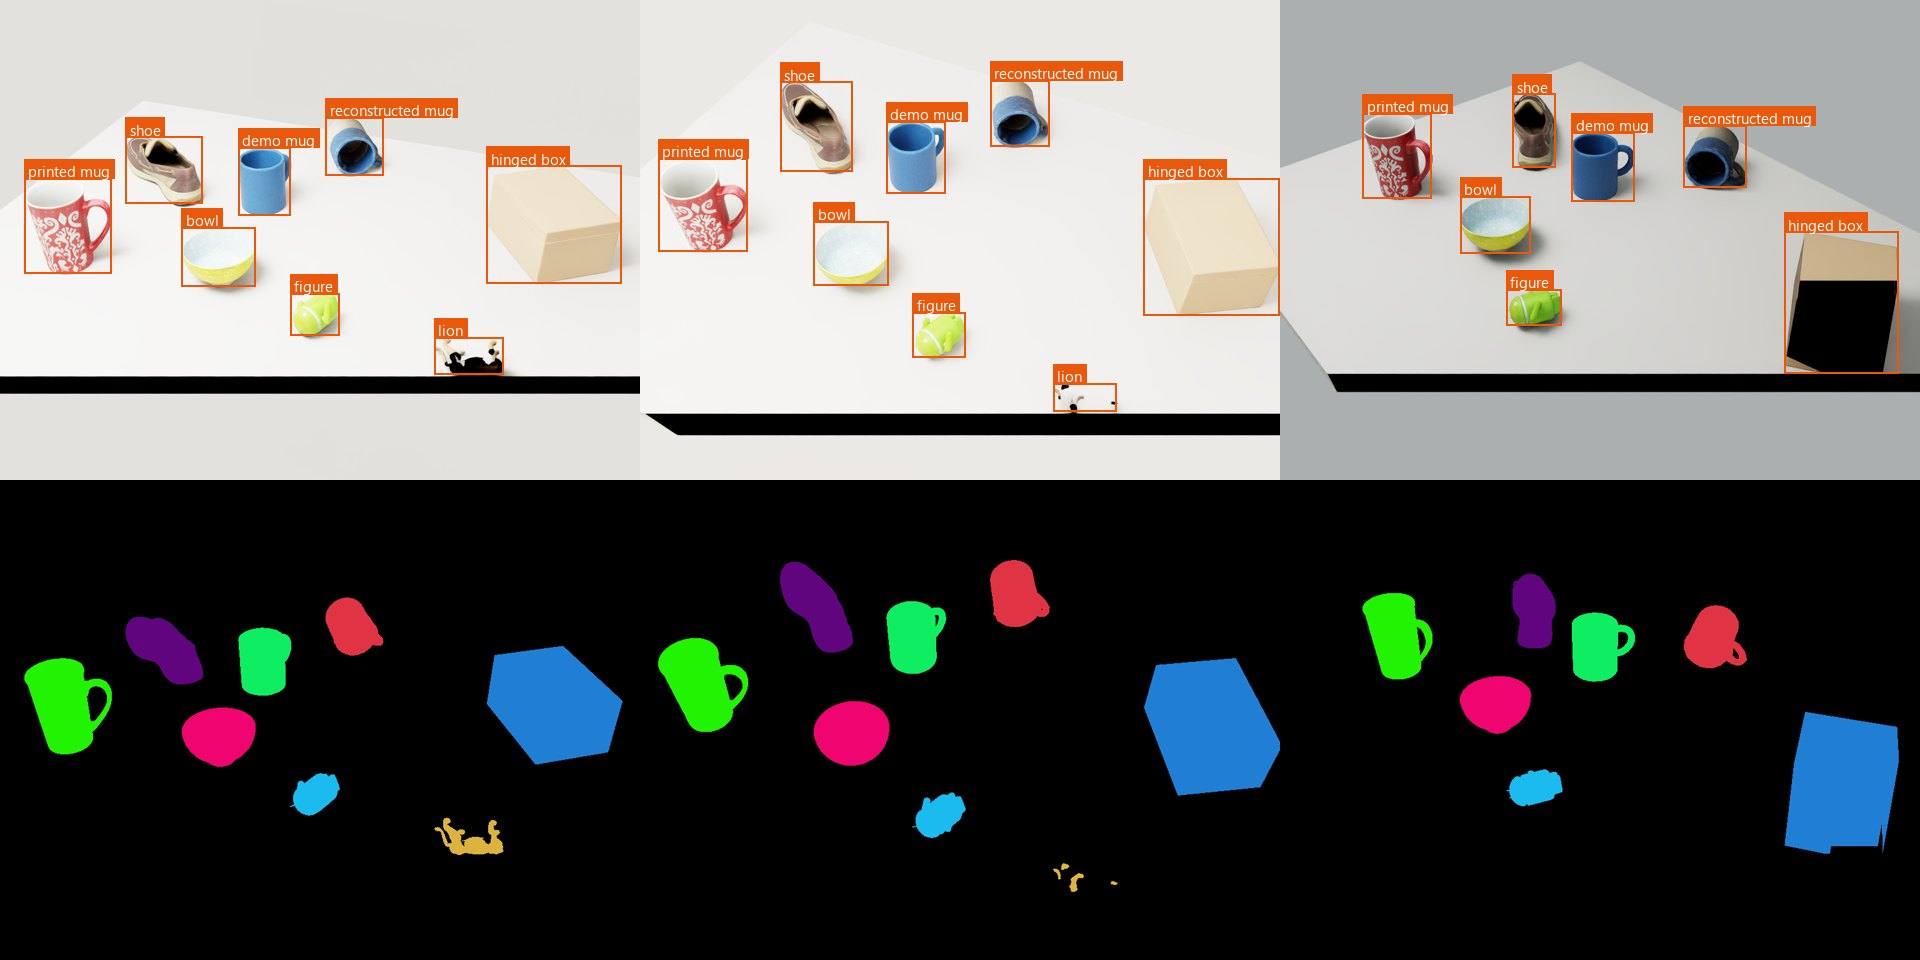
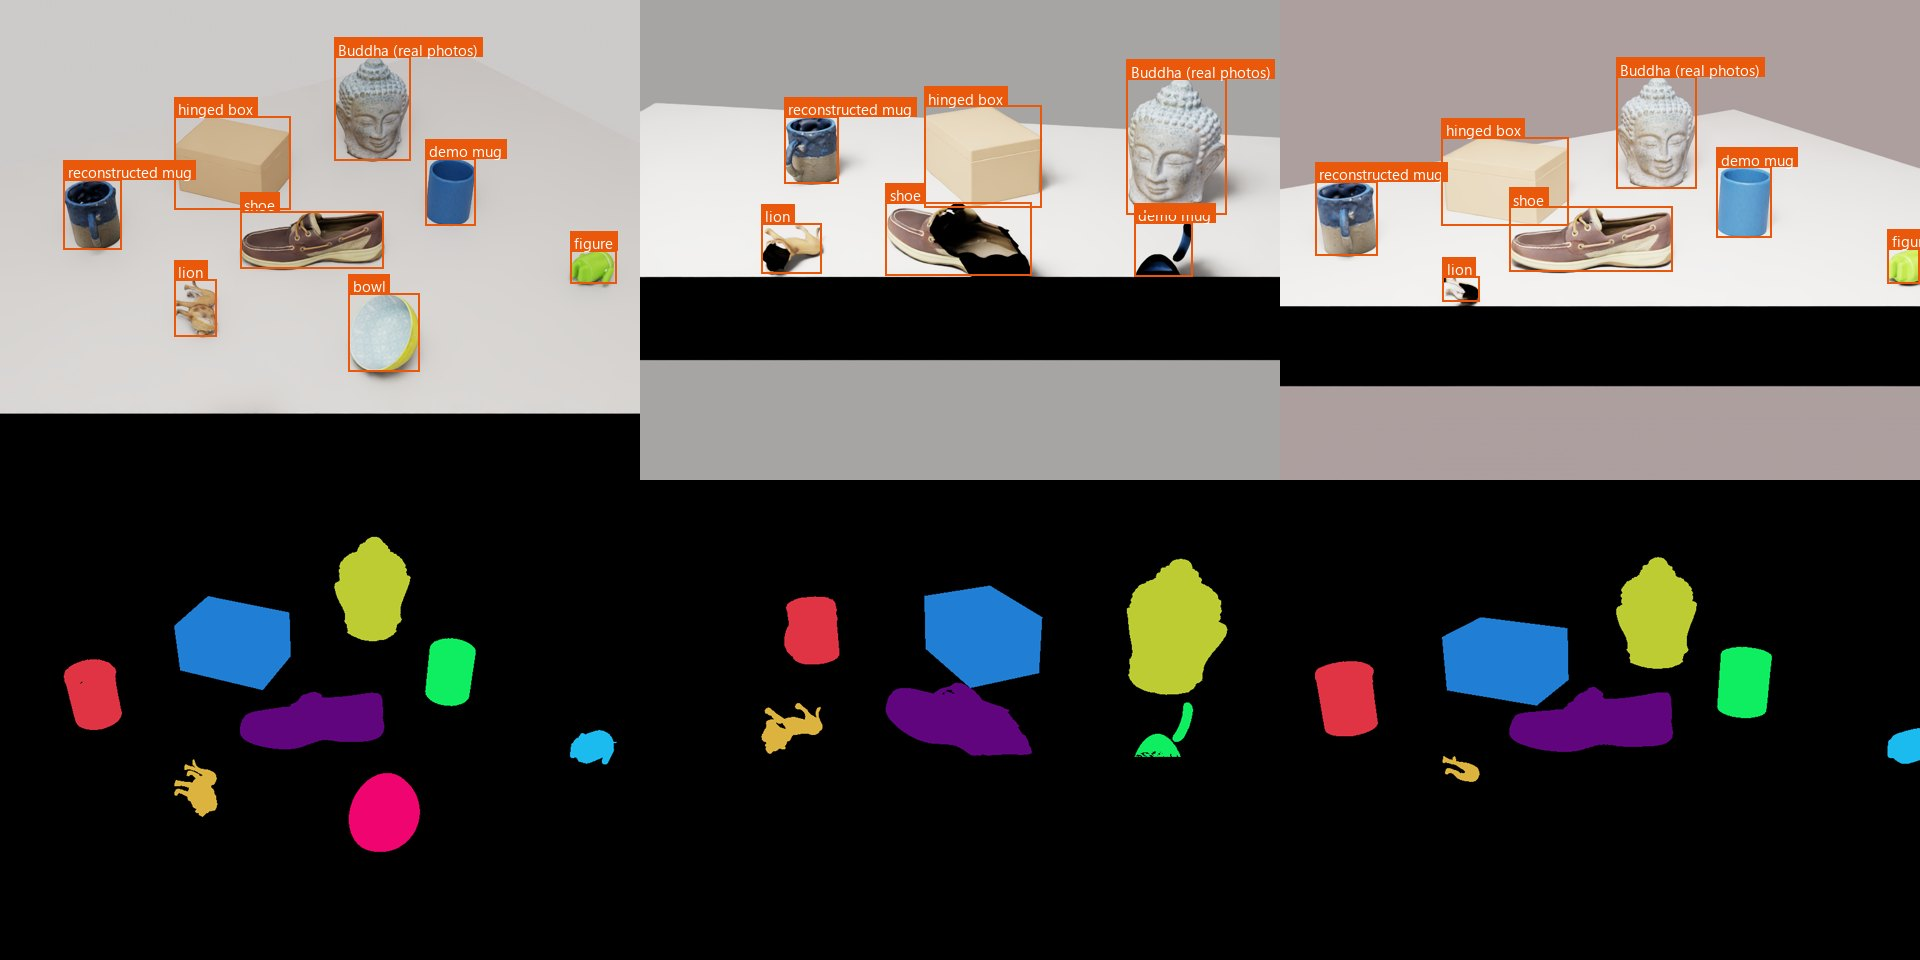
Benchmark results (6 objects), Isaac Sim 9-asset scene, docs update
- benchmark: speckled mug 0.78 mm / F 0.93, lion 0.60 mm / F 0.94, figure 0.78 mm /
  F 0.87 (+1.4% volume); honest failures on textureless interiors and thin walls
- isaac_demo: thick table + 240 Hz (fixes tunneling), gentler layout, --only/--trace
- README and overview: benchmark table, findings, real-photo Buddha, lessons

diff --git a/docs/overview.html b/docs/overview.html
@@ -53,9 +53,9 @@
 <p class="muted">Phone photos in, physics-ready <b>OpenUSD</b> assets out, verified in NVIDIA Isaac Sim and MuJoCo.</p>
 <div class="grid g4">
   <div class="card kpi"><b>0.78 mm</b><span>mean surface error, 78 photos → USD (speckled mug vs. ground truth)</span></div>
-  <div class="card kpi"><b>8 / 8</b><span>assets load unmodified in Isaac Sim 6 and settle in PhysX</span></div>
+  <div class="card kpi"><b>9 / 9</b><span>assets load unmodified in Isaac Sim 6 and settle in PhysX</span></div>
   <div class="card kpi"><b><span class="good">lift</span> vs <span class="bad">fail</span></b><span>robot rim-grasp: convex decomposition vs. one hull</span></div>
-  <div class="card kpi"><b>60 tests</b><span>plus 33 automated checks on every asset</span></div>
+  <div class="card kpi"><b>61 tests</b><span>plus 33 automated checks on every asset</span></div>
 </div>
 
 <h2>Architecture</h2>
@@ -79,9 +79,22 @@
     <p class="cap">Same mug, two glazes. Photogrammetry needs surface texture: the plain dark glaze leaves holes; the speckled one reconstructs to 0.8 mm.</p></div>
 </div>
 <div class="card" style="margin-top:12px">
+  <h3>Real photos: 67 shots of a stone Buddha head (AliceVision dataset, CC-BY 4.0)</h3>
+  <img src="figures/buddha_real.jpg" alt="Buddha real photos to USD">
+  <p class="cap">All 67 photos registered; the marker board was removed automatically; a watertight 20 cm head with 21 convex colliders (scale assumed, as the dataset gives no size). <code>scan2usd scan</code> runs the whole thing in one command.</p>
+</div>
+<div class="card" style="margin-top:12px">
   <h3>Benchmark</h3>
-  <!-- BENCHMARK_TABLE -->
-  <p class="cap">Each object: 78 rendered photos → COLMAP → Scan2USD with one ruler measurement (height). Accuracy = reconstruction to true surface; F-score = share of both surfaces within 2 mm. Ground truth: Google Scanned Objects (CC-BY 4.0) and a procedural mug.</p>
+  <table>
+<tr><th>Object</th><th>Accuracy mean / p95 (mm)</th><th>Completeness mean (mm)</th><th>F-score @2 mm</th><th>F-score @2 mm, above base</th><th>Volume error</th><th>Chart ΔE2000</th></tr>
+<tr><td>Speckled stoneware mug (procedural)</td><td>0.78 / 2.87</td><td>0.64</td><td>0.934</td><td>0.921</td><td>+11.8%</td><td>7.6 → 1.31</td></tr>
+<tr><td>Printed coffee mug</td><td>2.00 / 10.20</td><td>2.38</td><td>0.731</td><td>0.748</td><td>+191.5%</td><td>8.0 → 1.30</td></tr>
+<tr><td>Ceramic bowl</td><td>3.03 / 9.61</td><td>2.34</td><td>0.494</td><td>0.524</td><td>+82.0%</td><td>7.8 → 1.32</td></tr>
+<tr><td>Android figure toy*</td><td>0.78 / 3.08</td><td>0.96</td><td>0.872</td><td>0.894</td><td>+1.4%</td><td>7.7 → 1.38</td></tr>
+<tr><td>Lion figure</td><td>0.60 / 2.41</td><td>0.62</td><td>0.941</td><td>0.935</td><td>+8.2%</td><td>8.0 → 1.29</td></tr>
+<tr><td>Boat shoe</td><td>1.73 / 7.20</td><td>2.53</td><td>0.747</td><td>0.739</td><td>+32.2%</td><td>8.9 → 1.31</td></tr>
+</table><ul class="small" style="margin-top:10px"><li><b>Textured objects</b> (figures, speckled glaze) reconstruct to 0.6–0.8 mm mean error, F-score 0.87–0.94, volume within 1–12%.</li><li><b>Printed mug:</b> its plain white interior is never matched, so the cup is sealed partway down (+191% volume).</li><li><b>Bowl:</b> thin, lightly textured walls come out ~2–3 mm too thick in the stereo point cloud itself (finer meshing didn't help).</li><li><b>Shoe:</b> the opening and inside aren't observed and get sealed (+32%).</li><li>Fixes: a measured <code>--mass</code>, more top-down photos into cavities, and (future) visibility-based carving.</li></ul>
+  <p class="cap">Each object: 78 rendered photos → COLMAP → Scan2USD with one ruler measurement (height). Accuracy = reconstruction to true surface; F-score = share of both surfaces within 2 mm. Ground truth: Google Scanned Objects (CC-BY 4.0) and a procedural mug. *The GSO model id says "Triceratops" but contains an Android figure.</p>
 </div>
 
 <h2>Robotics demos</h2>
@@ -89,7 +102,7 @@
   <div class="card"><h3>Rim grasp in MuJoCo</h3><img src="figures/grasp_demo.webp" alt="Grasp demo">
     <p class="cap">One finger inside the cup. With Scan2USD's 25 convex pieces the mug lifts 11.6 cm; with a single convex hull the cavity is "lidded" and the grasp fails.</p></div>
   <div class="card"><h3>Isaac Sim 6 · Replicator dataset</h3><img src="figures/isaac_dataset.jpg" alt="Isaac Sim synthetic data">
-    <p class="cap">All 8 assets referenced unmodified, settled by PhysX, then rendered with random cameras and lights: RGB, tight 2D boxes, segmentation, depth (12 frames in 9 s).</p></div>
+    <p class="cap">All 9 assets (incl. the real-photo Buddha) referenced unmodified, settled by PhysX, then rendered with random cameras and lights: RGB, tight 2D boxes, segmentation, depth (12 frames in 9 s).</p></div>
   <div class="card"><h3>Bin of scanned objects</h3><img src="figures/clutter_demo.webp" alt="Clutter demo">
     <p class="cap">14 objects, 392 convex colliders: all end in the tote and settle; resting penetration 0.08 mm.</p></div>
   <div class="card"><h3>Articulated asset</h3><img src="figures/articulation_demo.webp" alt="Hinged box demo">
@@ -142,6 +155,7 @@
   <li><b>Clustering by distance breaks on sparse surfaces.</b> Picking the object by its 2D footprint on the table worked where 3D distance clustering failed.</li>
   <li><b>Units bite.</b> MuJoCo angles default to degrees; a radian limit produced a 1.8° hinge.</li>
   <li><b>Contacts need consistent stiffness.</b> Soft default bin walls let objects sink 8 mm; matching the assets' stiffness gave 0.08 mm.</li>
+  <li><b>Fast + thin = tunneling.</b> At PhysX's default 60 Hz, a dropped mug moved 4.5 cm per step and passed through a 2 cm table; a thicker slab and 240 Hz fixed it.</li>
   <li><b>Versions matter.</b> Isaac Sim 5.1's renderer crashed on this driver; 6.0 works.</li>
 </ul>
 
@@ -154,7 +168,7 @@
     <li>The Xbox controller after that: dark gloss is the hardest case (see the lesson above).</li></ul></div>
   <div class="card small"><h3>Measure, then run</h3><ul>
     <li>Weigh it (g) and measure its height (mm).</li>
-    <li><code>scan2usd reconstruct photos\ -o work\</code> then <code>scan2usd build work\object_mesh.ply --scale-to 0.095 --scale-axis z --mass 0.36</code></li>
+    <li><code>scan2usd scan photos\ -o out\ --scale-to 0.095 --mass 0.36 --material ceramic</code> (photos → USD in one step)</li>
     <li>Put files in <code>data\raw\&lt;object&gt;\</code> (git-ignored).</li></ul></div>
 </div>
 

diff --git a/scripts/isaac_demo.py b/scripts/isaac_demo.py
@@ -20,7 +20,6 @@ import json
 import math
 import os
 import random
-import sys
 import time
 
 ROOT = os.path.dirname(os.path.dirname(os.path.abspath(__file__)))
@@ -29,6 +28,8 @@ parser = argparse.ArgumentParser()
 parser.add_argument("--frames", type=int, default=12)
 parser.add_argument("--out", default=os.path.join(ROOT, "output", "isaac"))
 parser.add_argument("--settle-steps", type=int, default=240)
+parser.add_argument("--only", help="comma-separated substrings: load only matching assets (debugging)")
+parser.add_argument("--trace", action="store_true", help="print rigid-body heights while settling")
 args = parser.parse_args()
 
 from isaacsim import SimulationApp  # noqa: E402
@@ -47,6 +48,9 @@ for extra in ("output/demo/asset/ceramic_mug.usda", "data/synthetic/mug/work/ass
     pth = os.path.join(ROOT, extra)
     if os.path.exists(pth):
         assets.append(pth)
+if args.only:
+    keys = args.only.split(",")
+    assets = [a for a in assets if any(k in a for k in keys)]
 print(f"[scan2usd] {len(assets)} assets", flush=True)
 
 ctx = omni.usd.get_context()
@@ -60,27 +64,33 @@ scene = UsdPhysics.Scene.Define(stage, "/World/physicsScene")
 scene.CreateGravityDirectionAttr(Gf.Vec3f(0, 0, -1))
 scene.CreateGravityMagnitudeAttr(9.81)
 
-# Table top: a thin box collider with a neutral matte material.
+# Table top (z = 0): a thick slab, so fast-falling thin parts can't tunnel through it.
 table = UsdGeom.Cube.Define(stage, "/World/table")
 table.CreateSizeAttr(1.0)
-table.AddScaleOp().Set(Gf.Vec3f(1.2, 0.9, 0.02))
-table.AddTranslateOp().Set(Gf.Vec3d(0, 0, -0.01))
+table.AddTranslateOp().Set(Gf.Vec3d(0, 0, -0.05))
+table.AddScaleOp().Set(Gf.Vec3f(1.6, 1.2, 0.1))
 UsdPhysics.CollisionAPI.Apply(table.GetPrim())
 table.CreateDisplayColorAttr([Gf.Vec3f(0.62, 0.6, 0.57)])
+try:  # 240 Hz physics: at the default 60 Hz a 2.7 m/s drop moves 4.5 cm per step
+    from pxr import PhysxSchema
+
+    PhysxSchema.PhysxSceneAPI.Apply(scene.GetPrim()).CreateTimeStepsPerSecondAttr(240)
+except ImportError:
+    pass
 
 rng = random.Random(4)
 prims = []
-cols = 4
+cols = 3
 for i, path in enumerate(assets):
     name = os.path.splitext(os.path.basename(path))[0]
     prim_path = f"/World/obj_{i:02d}_{name[:20]}"
     xf = UsdGeom.Xform.Define(stage, prim_path)
     xf.GetPrim().GetReferences().AddReference(path)
     r, c = divmod(i, cols)
-    x = (c - (cols - 1) / 2) * 0.24 + rng.uniform(-0.02, 0.02)
-    y = (r - 0.5) * 0.26 + rng.uniform(-0.02, 0.02)
-    xf.AddTranslateOp().Set(Gf.Vec3d(x, y, 0.08 + 0.05 * i))
-    xf.AddRotateXYZOp().Set(Gf.Vec3f(rng.uniform(-25, 25), rng.uniform(-25, 25), rng.uniform(0, 360)))
+    x = (c - (cols - 1) / 2) * 0.30 + rng.uniform(-0.02, 0.02)
+    y = (r - 1) * 0.27 + rng.uniform(-0.02, 0.02)
+    xf.AddTranslateOp().Set(Gf.Vec3d(x, y, 0.05 + 0.03 * i))
+    xf.AddRotateXYZOp().Set(Gf.Vec3f(rng.uniform(-12, 12), rng.uniform(-12, 12), rng.uniform(0, 360)))
     prims.append((prim_path, name))
 
 dome = UsdLux.DomeLight.Define(stage, "/World/dome")
@@ -105,8 +115,17 @@ from omni.physx import get_physx_interface  # noqa: E402
 
 timeline = omni.timeline.get_timeline_interface()
 timeline.play()
-for _ in range(args.settle_steps):
+for step in range(args.settle_steps):
     app.update()
+    if args.trace and step % 20 == 0:
+        px = get_physx_interface()
+        hs = []
+        for prim_path, name in prims:
+            tr = px.get_rigidbody_transformation(prim_path)
+            hs.append(f"{name[:10]}={tr['position'][2]:.3f}" if tr and tr.get("ret_val") else f"{name[:10]}=?")
+            if name.startswith("buddha") and tr and tr.get("ret_val"):
+                hs.append("(xy {:.3f},{:.3f})".format(*tr["position"][:2]))
+        print(f"[scan2usd] step {step}: " + " ".join(hs), flush=True)
 physx = get_physx_interface()
 poses = {}
 for prim_path, name in prims:
@@ -121,7 +140,7 @@ for prim_path, name in prims:
     poses[name] = pos
 timeline.pause()
 finite = all(p is not None and all(math.isfinite(v) for v in p) for p in poses.values())
-on_table = all(p is not None and -0.02 < p[2] < 0.3 and abs(p[0]) < 0.6 and abs(p[1]) < 0.45 for p in poses.values())
+on_table = all(p is not None and -0.02 < p[2] < 0.3 and abs(p[0]) < 0.8 and abs(p[1]) < 0.6 for p in poses.values())
 physics = {"assets": len(prims), "finite": finite, "all_on_table": on_table, "poses": poses,
            "settle_steps": args.settle_steps}
 print("[scan2usd] physics:", json.dumps(physics), flush=True)

diff --git a/scripts/make_isaac_figure.py b/scripts/make_isaac_figure.py
@@ -19,7 +19,7 @@ NICE = {
     "ace_coffee_mug_kristen_16_oz_cup": "printed mug", "cole_hardware_bowl_scirocco_yellowblue": "bowl",
     "great_dinos_triceratops_toy": "figure", "schleich_lion_action_figure": "lion",
     "womens_bluefish_2eye_boat_shoe_in_tan": "shoe", "ceramic_mug": "demo mug", "mug": "reconstructed mug",
-    "keepsake_box": "hinged box",
+    "keepsake_box": "hinged box", "buddha_head": "Buddha (real photos)",
 }
 
 

diff --git a/src/scan2usd/articulation.py b/src/scan2usd/articulation.py
@@ -17,7 +17,7 @@ from scipy.spatial.transform import Rotation
 
 from . import __version__
 from .physics import MATERIALS, MassProperties, convex_decompose, estimate_mass_properties, single_hull
-from .usd_io import PhysicsMaterial, SurfaceMaterial, _prim_name, author_body, define_physics_material, read_usd
+from .usd_io import PhysicsMaterial, SurfaceMaterial, _prim_name, author_body, define_physics_material
 
 
 @dataclass

diff --git a/scripts/demo_articulation.py b/scripts/demo_articulation.py
@@ -72,7 +72,7 @@ def main() -> None:
 
     # (end time, lid torque N*m, holding the toy?)
     schedule = [(0.3, 0.0, True), (1.2, 0.35, True), (2.6, 0.0, False), (3.8, -0.35, False), (4.6, -0.35, False)]
-    frames, trace, t_prev = [], [], 0.0
+    frames, trace = [], []
     for t_end, torque, hold in schedule:
         data.eq_active[0] = hold
         while data.time < t_end:

diff --git a/README.md b/README.md
@@ -23,18 +23,34 @@
 
 **Photos → USD, scored against ground truth.** Each object is a 78-photo phone-style capture rendered in Blender (with a ColorChecker in the scene), reconstructed with COLMAP, and built with one ruler measurement. Full table: [docs/benchmark.md](docs/benchmark.md).
 
-<!-- BENCHMARK_TABLE -->
+| Object | Photos registered | Accuracy mean / p95 (mm) | Completeness mean (mm) | F-score @2 mm | F-score @2 mm, above base | Volume error | Chart ΔE2000 | Validation | Time (s) |
+|---|---|---|---|---|---|---|---|---|---|
+| Speckled stoneware mug (procedural) | 78/78 | 0.78 / 2.87 | 0.64 | 0.934 | 0.921 | +11.8% | 7.6 → 1.31 | warn | 315 |
+| Printed coffee mug | 78/78 | 2.00 / 10.20 | 2.38 | 0.731 | 0.748 | +191.5% | 8.0 → 1.30 | pass | 684 |
+| Ceramic bowl | 78/78 | 3.03 / 9.61 | 2.34 | 0.494 | 0.524 | +82.0% | 7.8 → 1.32 | warn | 891 |
+| Android figure toy* | 78/78 | 0.78 / 3.08 | 0.96 | 0.872 | 0.894 | +1.4% | 7.7 → 1.38 | warn | 648 |
+| Lion figure | 78/78 | 0.60 / 2.41 | 0.62 | 0.941 | 0.935 | +8.2% | 8.0 → 1.29 | pass | 552 |
+| Boat shoe | 78/78 | 1.73 / 7.20 | 2.53 | 0.747 | 0.739 | +32.2% | 8.9 → 1.31 | pass | 627 |
+
+*The GSO model id `Great_Dinos_Triceratops_Toy` contains an Android figure. "Above base" ignores the bottom 10 mm, which a tabletop capture can't see.
+
+- **Textured objects** (figures, speckled glaze) reconstruct to 0.6–0.8 mm mean error, F-score 0.87–0.94, volume within 1–12%.
+- **Printed mug:** its plain white interior is never matched, so the cup is sealed partway down (+191% volume).
+- **Bowl:** thin, lightly textured walls come out ~2–3 mm too thick in the stereo point cloud itself (finer meshing didn't help).
+- **Shoe:** the opening and inside aren't observed and get sealed (+32%).
+- Fixes: a measured `--mass`, more top-down photos into cavities, and (future) visibility-based carving.
 
 | | |
 |---|---|
 | ![Texture matters](docs/figures/texture_matters.jpg) | Photogrammetry needs surface texture: the same mug with a plain dark glaze leaves holes; with a speckled glaze it reconstructs to 0.8 mm. |
+| ![Buddha](docs/figures/buddha_real.jpg) | **Real photos.** AliceVision's Buddha dataset (67 photos, CC-BY 4.0): all registered, marker board removed automatically, watertight head with 21 convex colliders (20 cm height assumed; the dataset gives no size). |
 
 **Robotics demos** (MuJoCo, and Isaac Sim 6 with PhysX + Replicator):
 
 | | |
 |---|---|
 | ![Grasp](docs/figures/grasp_demo.jpg) | **Rim grasp.** One finger inside the cup: with Scan2USD's convex decomposition (25 pieces) the mug lifts 11.6 cm; with one convex hull the cavity is sealed and the grasp fails. `scripts/demo_grasp.py` |
-| ![Isaac](docs/figures/isaac_dataset.jpg) | **Isaac Sim 6.** 8 assets referenced unmodified, settled by PhysX, rendered by Replicator with random cameras and lights: RGB, tight 2D boxes, segmentation, depth. `scripts/isaac_demo.py` |
+| ![Isaac](docs/figures/isaac_dataset.jpg) | **Isaac Sim 6.** 9 assets (incl. the real-photo Buddha) referenced unmodified, settled by PhysX, rendered by Replicator with random cameras and lights: RGB, tight 2D boxes, segmentation, depth. `scripts/isaac_demo.py` |
 | ![Bin](docs/figures/clutter_demo.jpg) | **Bin of scanned objects.** 14 objects, 392 convex colliders; all settle in the tote, resting penetration 0.08 mm. `scripts/demo_clutter.py` |
 | ![Hinge](docs/figures/articulation_demo.jpg) | **Articulated asset.** A closed box scan + seam plane + hinge line → base and lid with a revolute joint (0–105°); the lid opens, a scanned toy drops in, the lid closes. `scripts/demo_articulation.py` |
 
@@ -46,7 +62,7 @@ Python 3.10–3.12, with [uv](https://docs.astral.sh/uv/):
 uv venv --python 3.11
 uv pip install -e ".[dev]"
 .venv\Scripts\scan2usd demo            # synthetic mug -> output\demo\ (see preview.png)
-.venv\Scripts\python -m pytest         # 60 tests
+.venv\Scripts\python -m pytest         # 61 tests
 ```
 
 Photo reconstruction needs [COLMAP](https://github.com/colmap/colmap/releases) (CUDA build): unzip it to `tools\colmap\` or set `SCAN2USD_COLMAP`.
@@ -54,7 +70,11 @@ Photo reconstruction needs [COLMAP](https://github.com/colmap/colmap/releases) (
 ## Usage
 
 ```powershell
-# Photos -> object mesh (Z-up, table at z=0, arbitrary scale)
+# Photos -> USD in one step (reconstruct + build); --scale-to is the measured height
+scan2usd scan photos\ -o output\mug --scale-to 0.095 --mass 0.36 --material ceramic `
+    --chart-image chart.jpg --chart-corners "412,310;1630,322;1622,1140;405,1128"
+
+# Or step by step: photos -> object mesh (Z-up, table at z=0, arbitrary scale)
 scan2usd reconstruct photos\ -o work\mug
 
 # Mesh -> simulation asset: scale from one ruler measurement, measured mass, color chart

diff --git a/docs/benchmark.md b/docs/benchmark.md
@@ -5,13 +5,13 @@ Each object is rendered as a 78-photo phone-style capture in Blender (3 rings + 
 - **Accuracy**: distance from the reconstruction to the true surface. **Completeness**: distance from the true surface to the reconstruction.
 - **F-score @2 mm**: share of both surfaces within 2 mm of each other (1.0 = perfect).
 
-| Object | Photos registered | Accuracy mean / p95 (mm) | Completeness mean (mm) | F-score @2 mm | Volume error | Chart ΔE2000 | Validation | Time (s) |
-|---|---|---|---|---|---|---|---|---|
-| Speckled stoneware mug (procedural) | 78/78 | 0.78 / 2.87 | 0.64 | 0.934 | +11.8% | 7.6 → 1.31 | warn | 315 |
-| Printed coffee mug | – | failed: FileNotFoundError: [WinError 3] The system cannot find the path specified: 'D:\\Local Projects\\Scan2USD\\data\\synthetic\\ace_coffee_mug_kristen_16_oz_cup\\ima | | | | | | |
-| Ceramic bowl | – | failed: FileNotFoundError: [WinError 3] The system cannot find the path specified: 'D:\\Local Projects\\Scan2USD\\data\\synthetic\\cole_hardware_bowl_scirocco_yellowblu | | | | | | |
-| Triceratops toy | – | failed: FileNotFoundError: [WinError 3] The system cannot find the path specified: 'D:\\Local Projects\\Scan2USD\\data\\synthetic\\great_dinos_triceratops_toy\\images' | | | | | | |
-| Lion figure | – | failed: FileNotFoundError: [WinError 3] The system cannot find the path specified: 'D:\\Local Projects\\Scan2USD\\data\\synthetic\\schleich_lion_action_figure\\images' | | | | | | |
-| Boat shoe | – | failed: FileNotFoundError: [WinError 3] The system cannot find the path specified: 'D:\\Local Projects\\Scan2USD\\data\\synthetic\\womens_bluefish_2eye_boat_shoe_in_tan | | | | | | |
+| Object | Photos registered | Accuracy mean / p95 (mm) | Completeness mean (mm) | F-score @2 mm | F-score @2 mm, above base | Volume error | Chart ΔE2000 | Validation | Time (s) |
+|---|---|---|---|---|---|---|---|---|---|
+| Speckled stoneware mug (procedural) | 78/78 | 0.78 / 2.87 | 0.64 | 0.934 | 0.921 | +11.8% | 7.6 → 1.31 | warn | 315 |
+| Printed coffee mug | 78/78 | 2.00 / 10.20 | 2.38 | 0.731 | 0.748 | +191.5% | 8.0 → 1.30 | pass | 684 |
+| Ceramic bowl | 78/78 | 3.03 / 9.61 | 2.34 | 0.494 | 0.524 | +82.0% | 7.8 → 1.32 | warn | 891 |
+| Android figure toy* | 78/78 | 0.78 / 3.08 | 0.96 | 0.872 | 0.894 | +1.4% | 7.7 → 1.38 | warn | 648 |
+| Lion figure | 78/78 | 0.60 / 2.41 | 0.62 | 0.941 | 0.935 | +8.2% | 8.0 → 1.29 | pass | 552 |
+| Boat shoe | 78/78 | 1.73 / 7.20 | 2.53 | 0.747 | 0.739 | +32.2% | 8.9 → 1.31 | pass | 627 |
 
-Ground-truth meshes: Google Scanned Objects (CC-BY 4.0) and a procedural mug.
+Ground-truth meshes: Google Scanned Objects (CC-BY 4.0) and a procedural mug. *The GSO model id `Great_Dinos_Triceratops_Toy` actually contains an Android figure.
